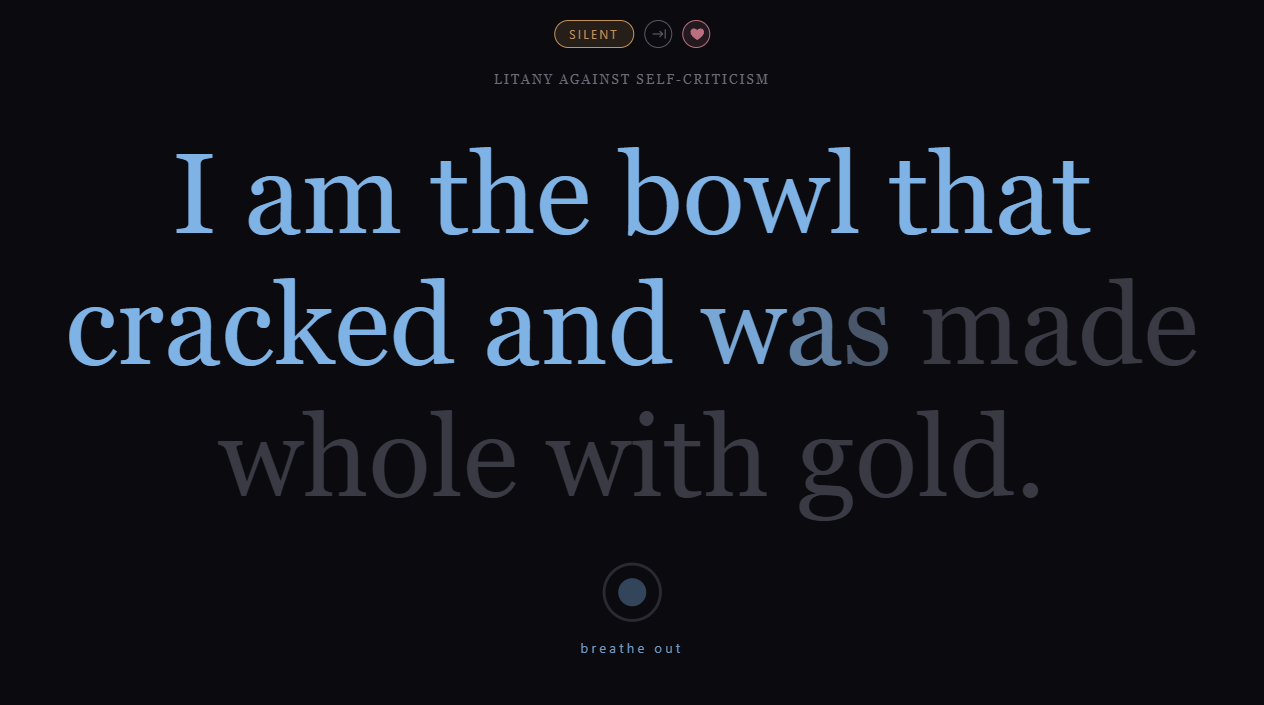
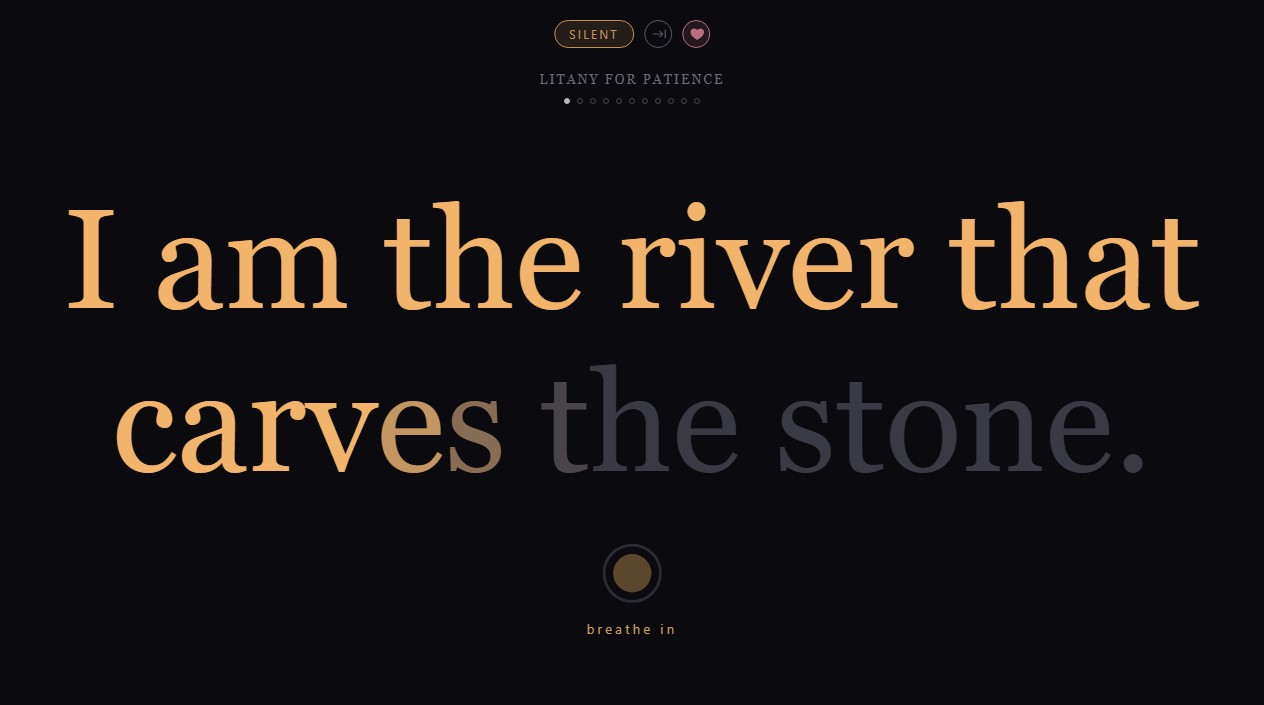
docs(readme): new screenshots of the Litany for Patience
Retaken from the current app, so the one-line view now shows the
progress dots under the title.

Changed region(s): [[0.0309, 0.1872, 0.9565, 0.7489], [0.4628, 0.7801, 0.5245, 0.9362], [0.4011, 0.0936, 0.6171, 0.1248]]

diff --git a/README.md b/README.md
@@ -10,7 +10,7 @@ A very simple app that shows a litany one line at a time, in large text, paced t
 
 | One line at a time | Whole litany |
 |---|---|
-| ![One line at a time: the line fills in blue on the out-breath; the heart at the top marks a favourite](docs/single-line.png) | ![Whole litany: lines already read keep their breath colour, the current line fills in amber; the heart at the top marks a favourite](docs/whole-litany.png) |
+| ![One line at a time: the line fills in amber on the in-breath; the dots under the title show how far through you are, and the heart at the top marks a favourite](docs/single-line.png) | ![Whole litany: lines already read keep their breath colour, the current line fills in amber; the heart at the top marks a favourite](docs/whole-litany.png) |
 
 The idea comes from the **Litany Against Fear** in Frank Herbert's *Dune* (1965), recited by the Bene Gesserit to calm the mind in the face of fear. The litanies here are written in the same spirit: short lines, spoken slowly, in time with the breath.
 
